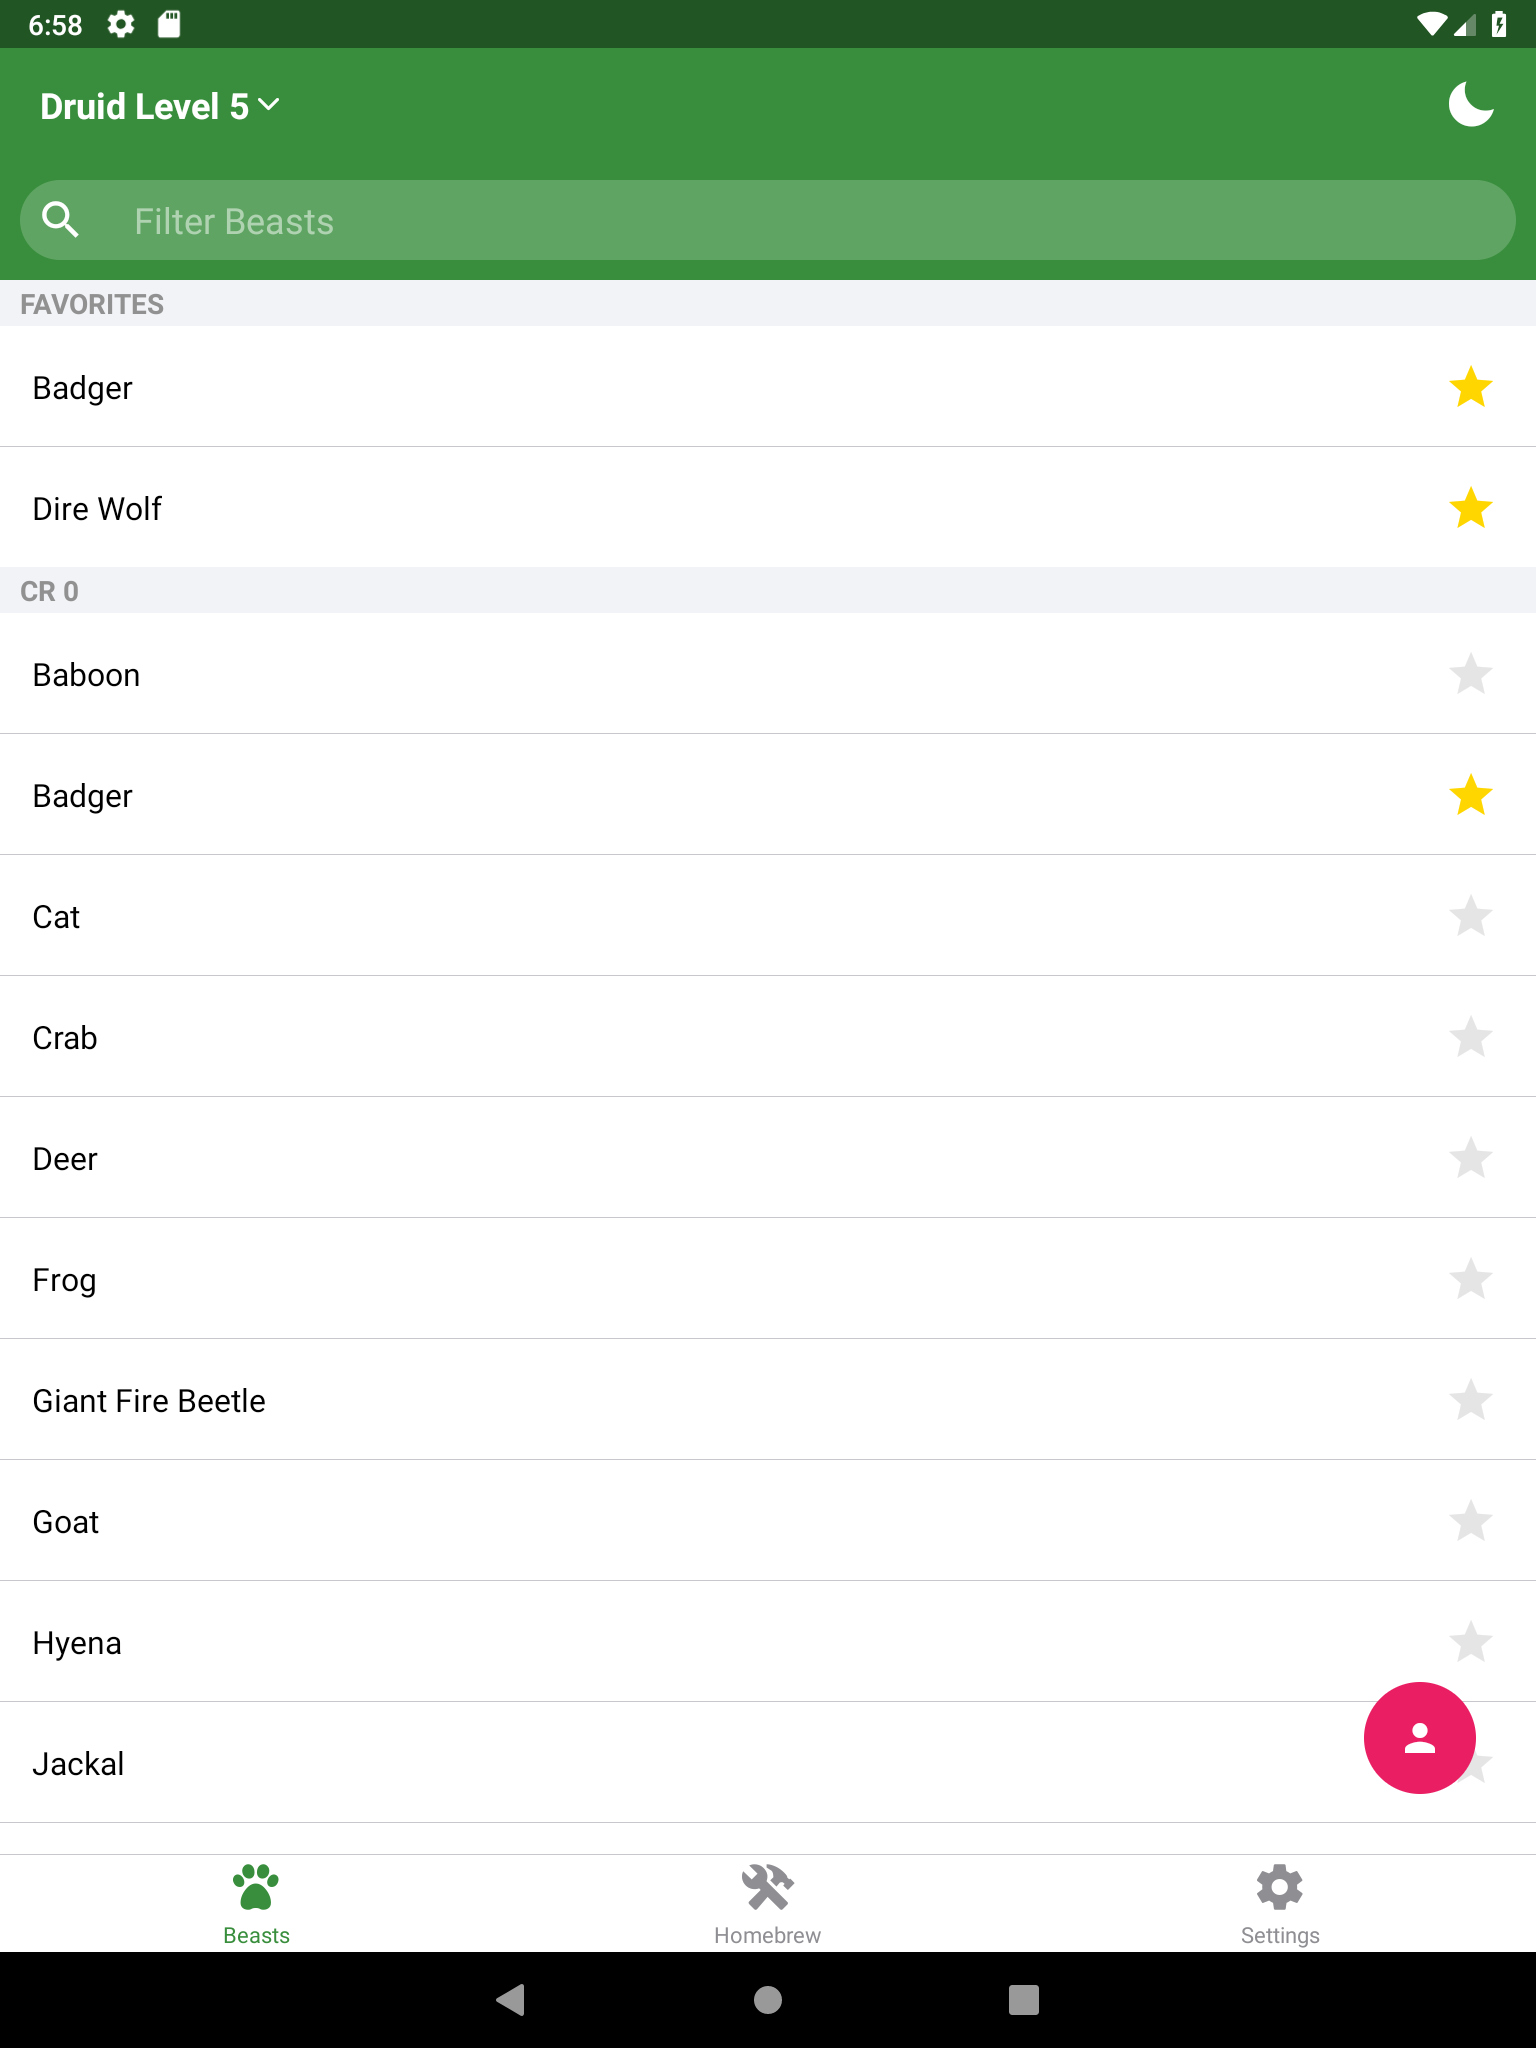
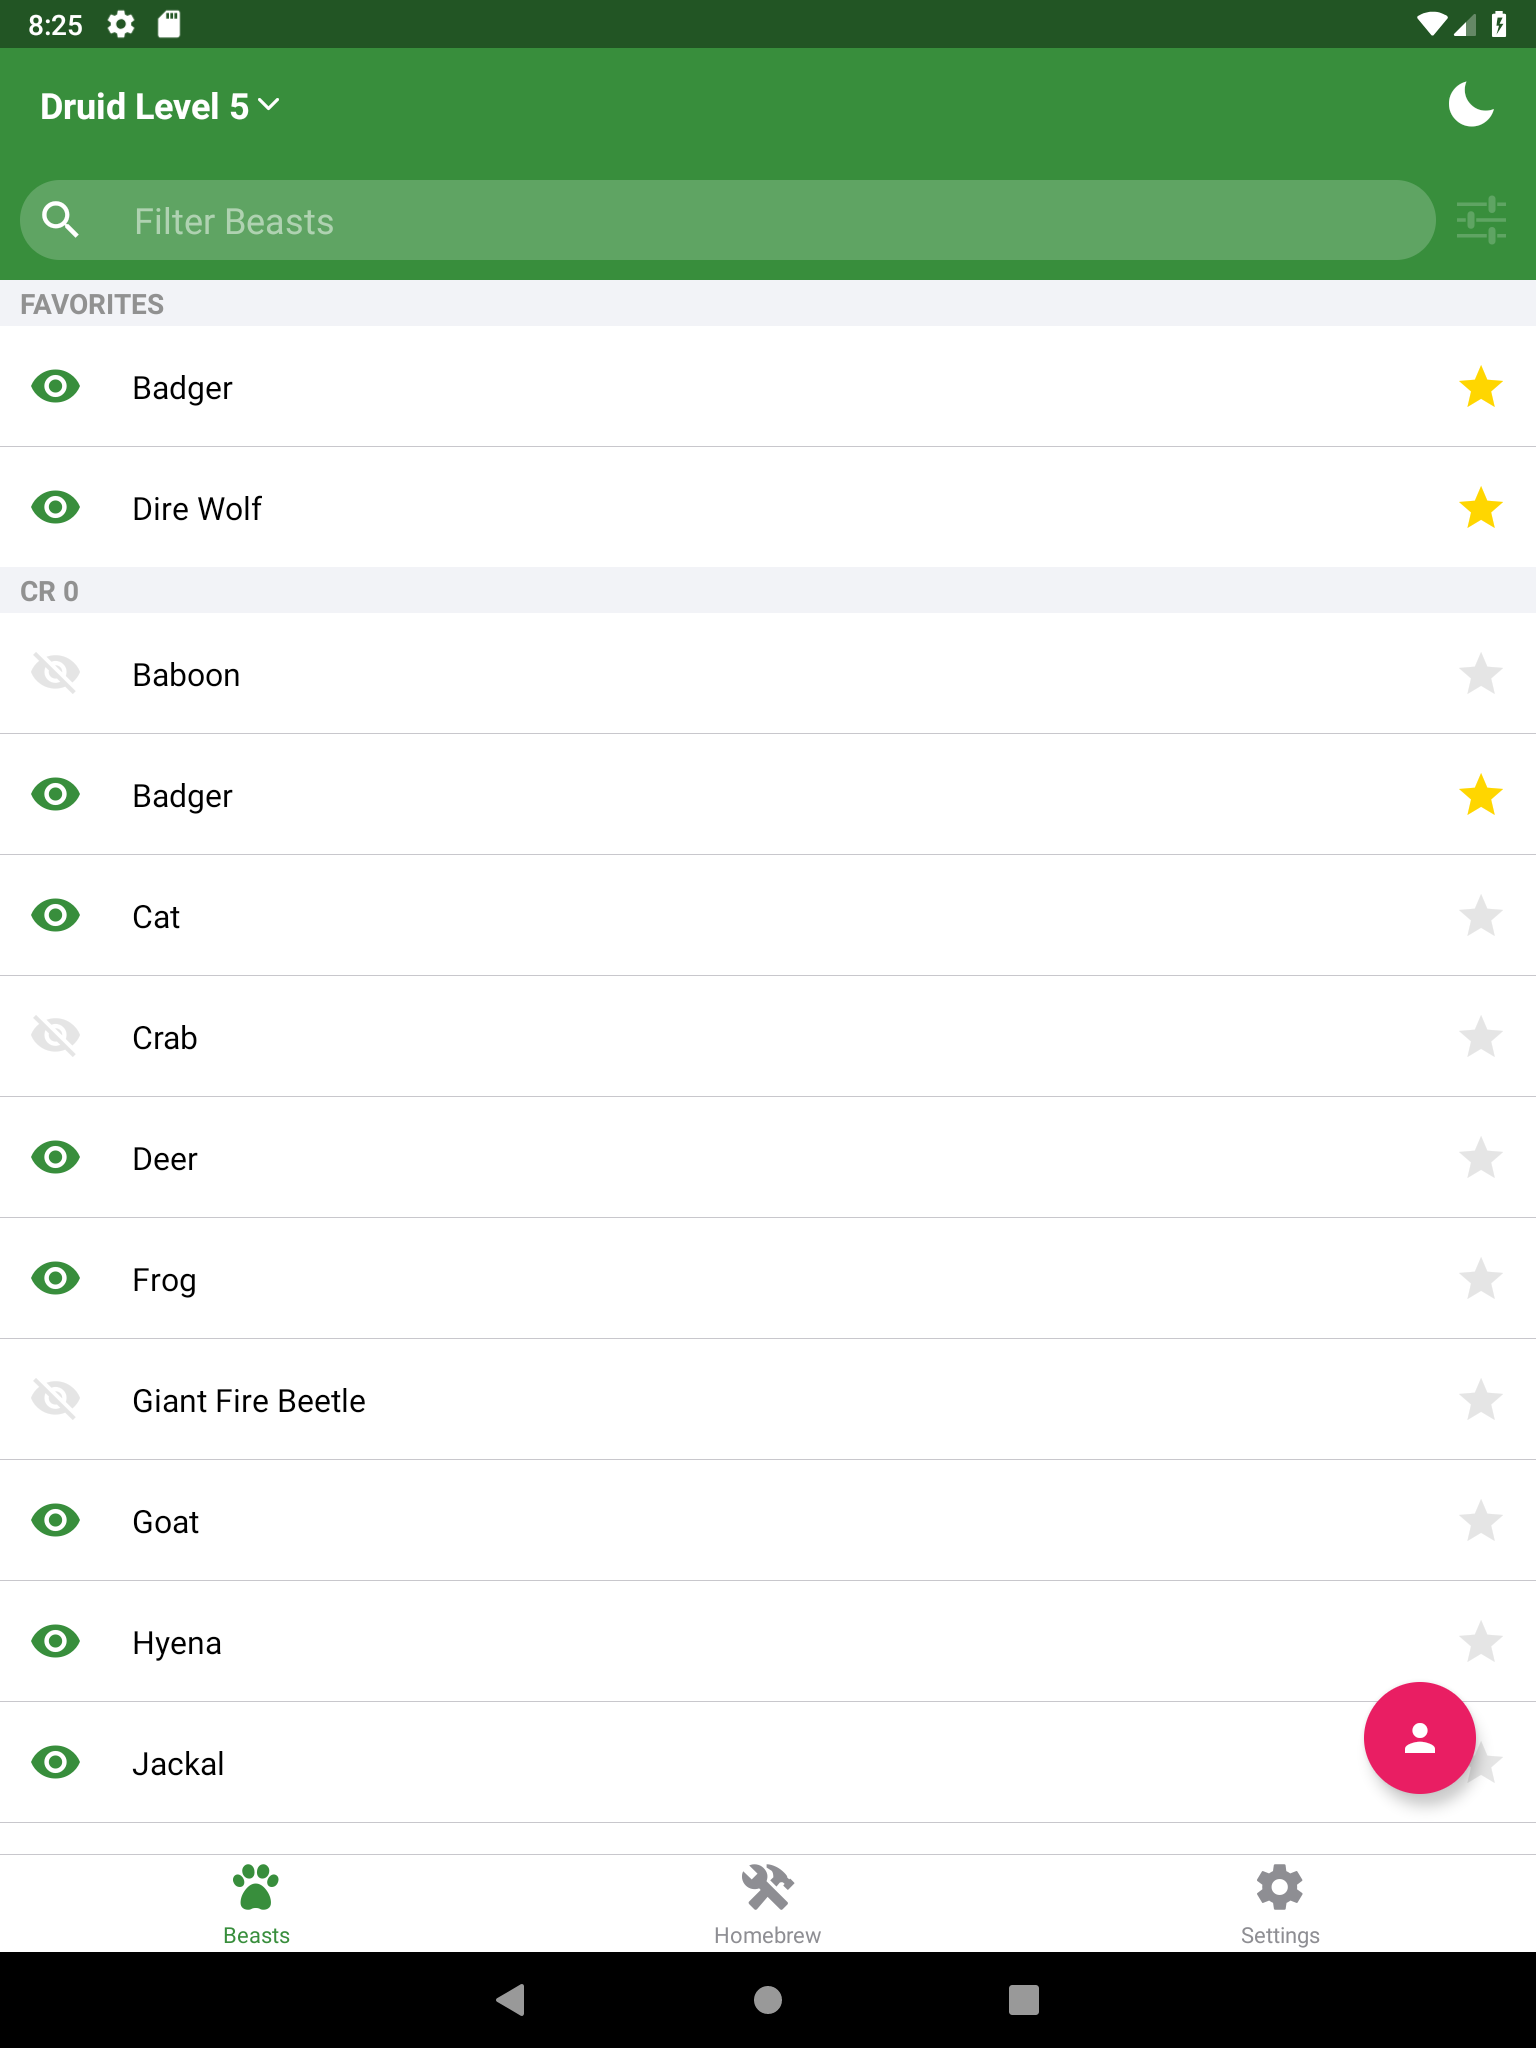
update screenshots, fix release permissions

diff --git a/src/components/screens/beasts/list/header.js b/src/components/screens/beasts/list/header.js
@@ -87,6 +87,9 @@ export const ExtendedHeader = ({ navigation, screenProps }) => {
 			color: theme.textColor,
 			borderColor: theme.textColorSecondary
 		},
+		pickerLabel: {
+			paddingBottom: 0
+		},
 		filterContainer: {
 			flex: 1,
 			paddingTop: 10,
@@ -153,7 +156,7 @@ export const ExtendedHeader = ({ navigation, screenProps }) => {
 							title='Seen'
 						/>
 					</MenuOption>
-					<MenuOption disabled>
+					<MenuOption customStyles={{ optionWrapper: styles.pickerLabel }} disabled>
 						<Text style={[styles.menuItemText, styles.textExtraMargin]}>Movement</Text>
 					</MenuOption>
 					<MenuOption disabled>

diff --git a/README.md b/README.md
@@ -5,9 +5,11 @@ With this app you can enter your Druid level and see all the beasts you can shap
 Features:
 * A quick reference to all the beasts in the basic rules for 5th edition
 * Auto filter beasts based on Druid level and Circle
+* Track which beasts your character has seen
 * Favorite beasts for quick access
 * Homebrew beast creator
 * Track multiple characters
+* Filter beast list based on if you've seen them, or their movement types
 
 ## Links
 * [Android](https://play.google.com/store/apps/details?id=com.adpyke.druidshape)
